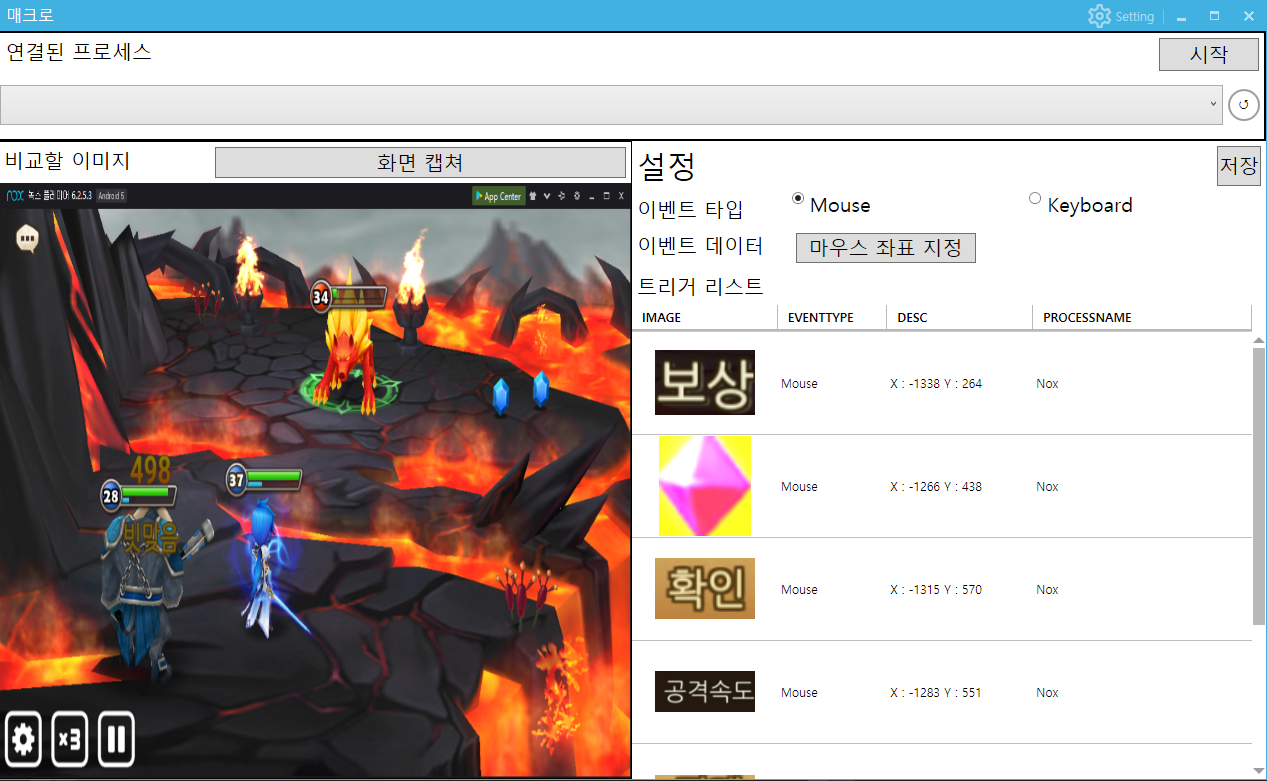
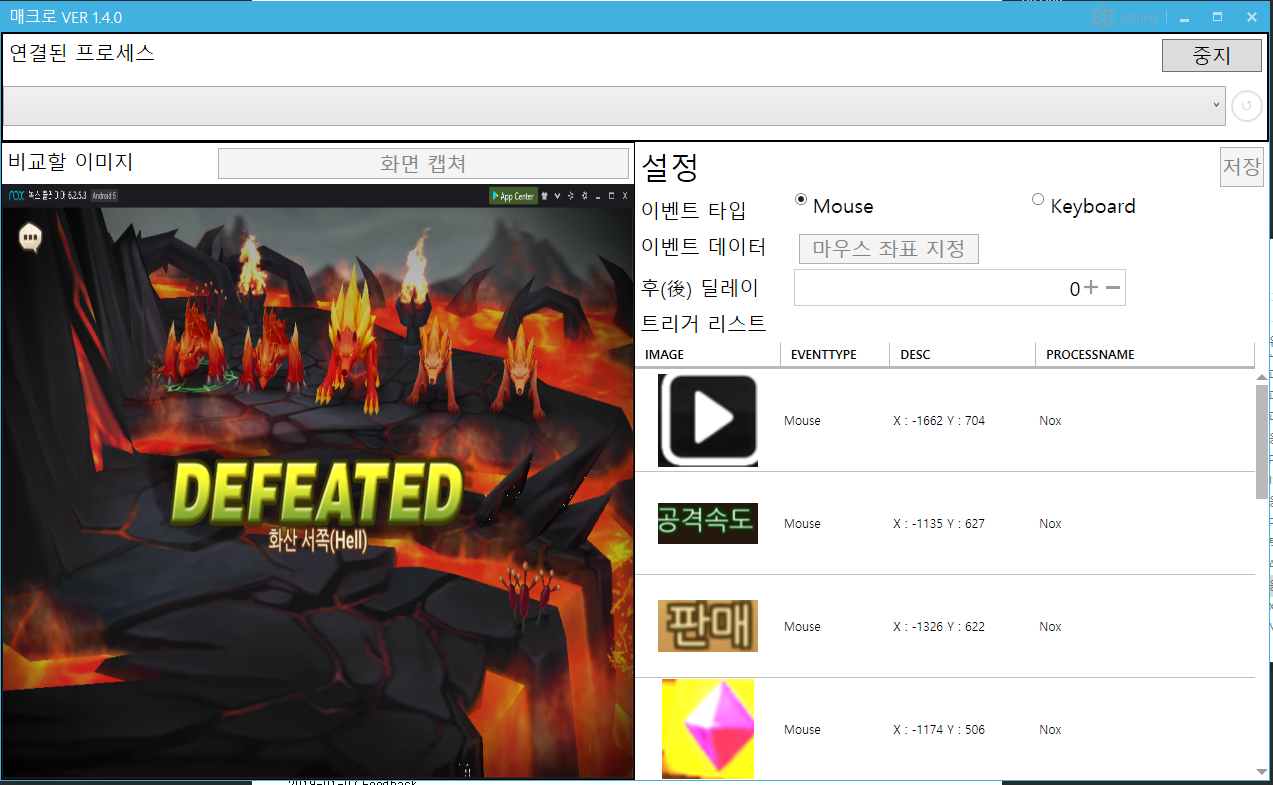
소스 정리

diff --git a/Macro/Infrastructure/OpenCVHelper.cs b/Macro/Infrastructure/OpenCVHelper.cs
@@ -10,15 +10,7 @@ namespace Macro.Infrastructure
     {
         public static int Search(Bitmap source, Bitmap target)
         {
-            var sourceMat = BitmapConverter.ToMat(source);
-            var targetMat = BitmapConverter.ToMat(target);
-
-            if (sourceMat.Cols <= targetMat.Cols || sourceMat.Rows <= targetMat.Rows)
-                return 0;
-
-            var match = sourceMat.MatchTemplate(targetMat,TemplateMatchModes.CCoeffNormed);
-            Cv2.MinMaxLoc(match, out double min, out double max, out Point minLoc, out Point maxLoc);
-            return Convert.ToInt32(max * 100);
+            return Search(source, target, out System.Windows.Point location);
         }
         public static int Search(Bitmap source, Bitmap target, out System.Windows.Point location)
         {

diff --git a/Macro/Infrastructure/Impl/MainWindowImpl.cs b/Macro/Infrastructure/Impl/MainWindowImpl.cs
@@ -47,7 +47,7 @@ namespace Macro
 
             InitializeComponent();
             Loaded += MainWindow_Loaded;
-            }
+        }
         
         private void Init()
         {

diff --git a/README.md b/README.md
@@ -31,7 +31,7 @@ OS 버전
     
     3.Period : 전체 작업 완료 이후 딜레이
 
-    4.ProcessDelay : 저장된 트리거 아이템 비교 완료 이후 딜레이(공용)
+    4.ProcessDelay : 저장된 트리거 아이템 비교 완료 이후 딜레이(공통)
     
     5.Similarity : 이미지 프로세싱 유사도
 
@@ -60,6 +60,10 @@ OS 버전
     단일 작업별 후 딜레이 설정(후 딜레이 => 아이템 개별 설정)
 
     버전 체크 옵션화
+
+    저장 방식 변경 =>
+
+    트리거 아이템 변경시 원본을 남겨두고 마지막에 추가 방식 => 트리거 아이템 원본 수정
 
 1.3.1
 
